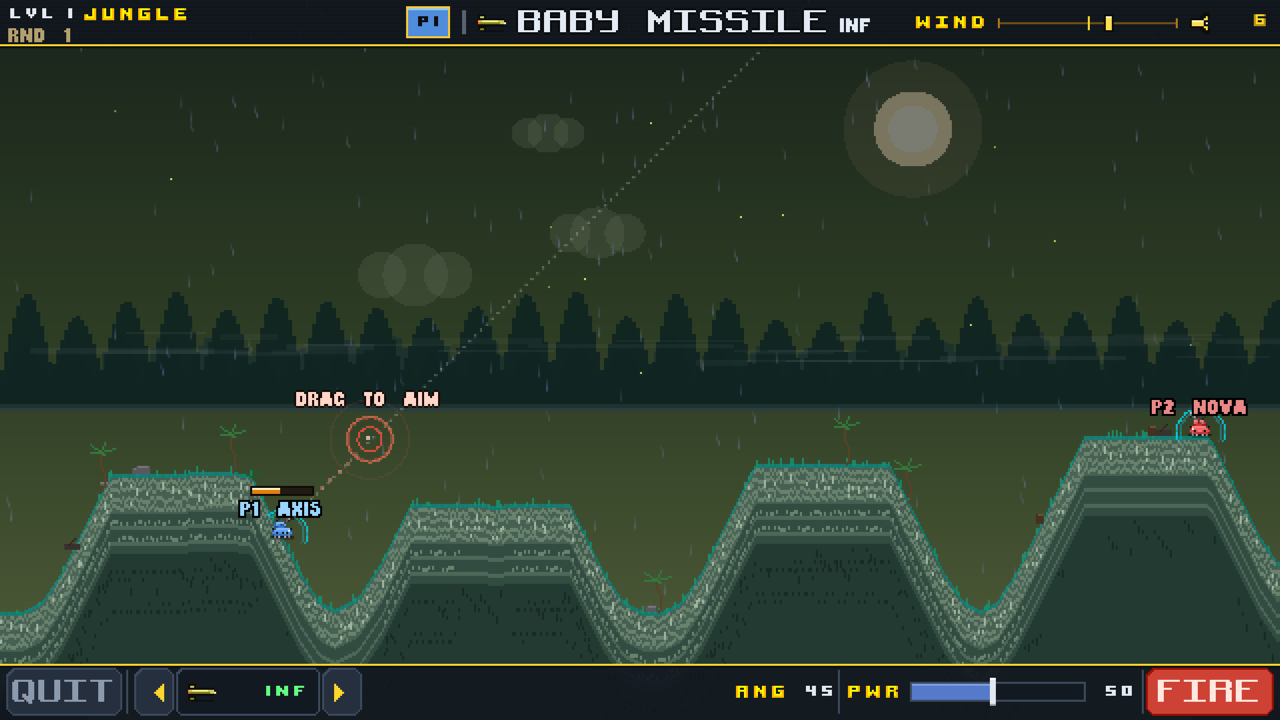
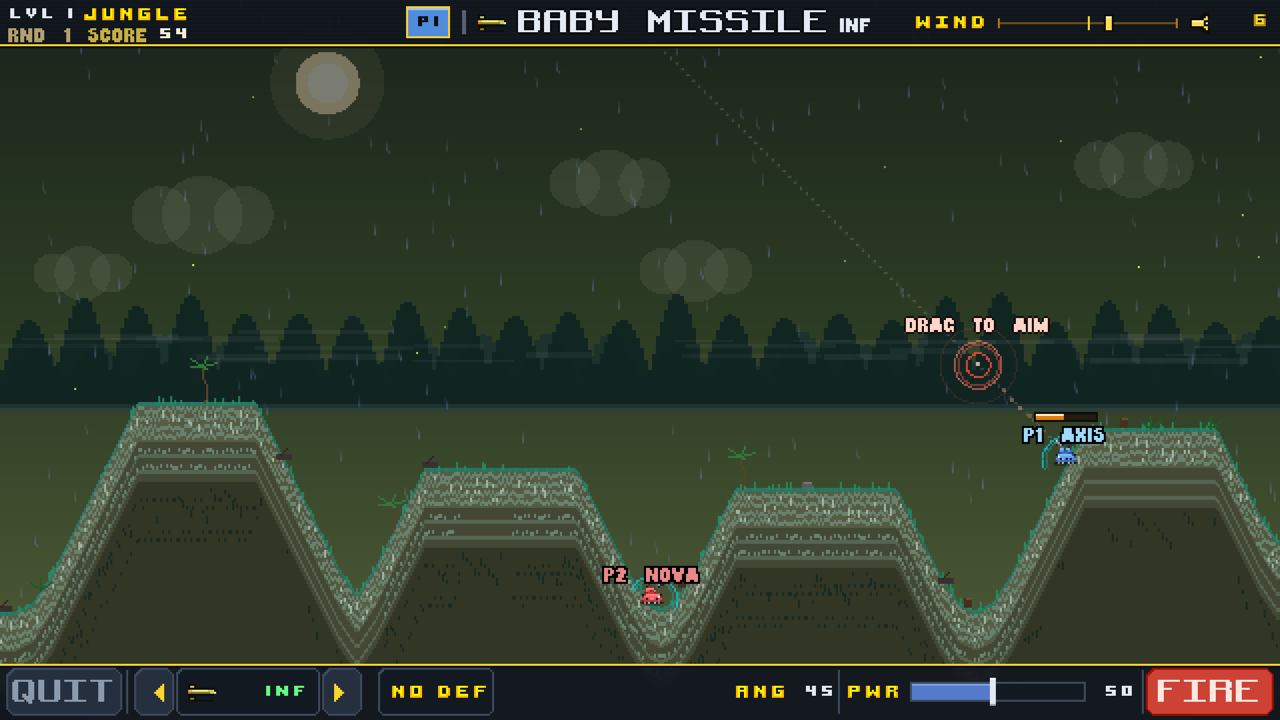
feat: modelos animados, sonido de explosión nuevo, selector de defensa y botón de compartir
El cuadrado blanco que tapaba el tanque al disparar era el propio obús:
BuildShot lo sacaba por un offset fijo que ignoraba el ángulo del cañón, así
que disparando alto nacía sobre el casco, y la estela —que se dibuja hacia
atrás— apuntaba dentro del tanque. Ahora sale por la boca del tubo y la
estela se limita a lo recorrido.

Los modelos del datalink se construyen cada fotograma con un builder de
anillos en vez de una tabla de vértices numerados a mano, así que por fin
tienen curvatura y, sobre todo, se mueven: el bus del MIRV separa sus cinco
ojivas, el bote del racimo se abre y suelta las bombetas, la broca del
penetrador gira dentro del morro, y encima van llama de motor, chispa de
mecha y esquirlas. Los cuatro hologramas de defensa se rehacen en la misma
línea.

La explosión pasa a siete capas con ecos retardados y sube el volumen
general; los sub-obuses abren mucho más el abanico y salen con más fuerza
en los extremos; y la protección instalada tiene por fin selector en
partida (celda del HUD o tecla D), con el sistema acoplado encajando el
próximo impacto.

Además: puntuación viva en el HUD, trayectorias más discretas, celdas del
rack a la misma altura con un bloque TANK STATUS, y un botón SHARE en el
menú principal que abre WhatsApp o Telegram — con la web preparada para que
ese enlace enseñe una tarjeta decente.

diff --git a/components/ShareGame.tsx b/components/ShareGame.tsx
@@ -1,0 +1,109 @@
+'use client';
+import { useState } from 'react';
+import { motion } from 'framer-motion';
+import { Check, Copy, Send, MessageCircle } from 'lucide-react';
+import { SITE_URL, SITE_NAME } from '@/lib/site';
+
+// One line of copy shared everywhere, so a link posted from the game and one
+// posted from this page read the same in the chat.
+const PITCH = `${SITE_NAME} — pixel-art artillery with destructible terrain. Free, offline, no accounts:`;
+
+const targets = [
+  {
+    id: 'whatsapp',
+    label: 'WhatsApp',
+    color: '#25D366',
+    icon: MessageCircle,
+    href: `https://wa.me/?text=${encodeURIComponent(`${PITCH} ${SITE_URL}`)}`,
+  },
+  {
+    id: 'telegram',
+    label: 'Telegram',
+    color: '#2AABEE',
+    icon: Send,
+    href: `https://t.me/share/url?url=${encodeURIComponent(SITE_URL)}&text=${encodeURIComponent(PITCH)}`,
+  },
+  {
+    id: 'x',
+    label: 'X',
+    color: '#e8ecf3',
+    icon: null,
+    href: `https://twitter.com/intent/tweet?text=${encodeURIComponent(PITCH)}&url=${encodeURIComponent(SITE_URL)}`,
+  },
+];
+
+export default function ShareGame() {
+  const [copied, setCopied] = useState(false);
+
+  const copy = async () => {
+    try {
+      await navigator.clipboard.writeText(SITE_URL);
+      setCopied(true);
+      setTimeout(() => setCopied(false), 2200);
+    } catch {
+      /* clipboard blocked (insecure context / denied) — the links still work */
+    }
+  };
+
+  return (
+    <section id="share" className="relative py-20 px-6 bg-bg-2 border-t border-line">
+      <div className="absolute inset-0 bg-grid opacity-20 pointer-events-none" />
+      <div className="relative max-w-3xl mx-auto text-center">
+        <div className="inline-block font-mono text-xs text-amber-2 border border-amber/40 px-4 py-1.5 mb-4 tracking-widest">
+          PASS IT ON
+        </div>
+        <h2 className="font-display text-2xl md:text-4xl text-cream tracking-tight uppercase">
+          Artillery is better with a rival
+        </h2>
+        <p className="font-mono text-sm text-muted mt-3 mb-8">
+          Send the link — they play on the same couch, or beat your score and
+          send back a share code
+        </p>
+
+        <div className="flex flex-wrap items-center justify-center gap-3">
+          {targets.map((t, i) => {
+            const Icon = t.icon;
+            return (
+              <motion.a
+                key={t.id}
+                href={t.href}
+                target="_blank"
+                rel="noopener noreferrer"
+                initial={{ opacity: 0, y: 14 }}
+                whileInView={{ opacity: 1, y: 0 }}
+                viewport={{ once: true }}
+                transition={{ duration: 0.35, delay: i * 0.06 }}
+                whileHover={{ y: -3 }}
+                className="flex items-center gap-2 px-5 py-3 bg-panel border clip-angled-sm font-mono text-sm text-cream"
+                style={{ borderColor: `${t.color}55` }}
+              >
+                {Icon
+                  ? <Icon size={16} style={{ color: t.color }} />
+                  : <span className="font-display text-base" style={{ color: t.color }}>X</span>}
+                {t.label}
+              </motion.a>
+            );
+          })}
+
+          <motion.button
+            onClick={copy}
+            initial={{ opacity: 0, y: 14 }}
+            whileInView={{ opacity: 1, y: 0 }}
+            viewport={{ once: true }}
+            transition={{ duration: 0.35, delay: 0.18 }}
+            whileHover={{ y: -3 }}
+            className="flex items-center gap-2 px-5 py-3 bg-panel border border-amber/50 clip-angled-sm font-mono text-sm text-amber-2"
+          >
+            {copied ? <Check size={16} /> : <Copy size={16} />}
+            {copied ? 'Link copied' : 'Copy link'}
+          </motion.button>
+        </div>
+
+        <p className="font-mono text-[11px] text-muted-2 mt-6">
+          The game has the same button: <span className="text-amber-2">SHARE</span> in the
+          top-right corner of the main menu
+        </p>
+      </div>
+    </section>
+  );
+}

diff --git a/app/layout.tsx b/app/layout.tsx
@@ -6,7 +6,7 @@ import { SITE_URL, SITE_NAME } from '@/lib/site';
 
 const TITLE = SITE_NAME;
 const DESCRIPTION =
-  'A turn-based artillery game with destructible pixel-art terrain, inspired by Scorched Earth. Local multiplayer, procedural levels, 100% offline — no servers.';
+  'Blow the ground out from under your rival. Turn-based pixel-art artillery: 8 biomes, 7 warheads, 4 defence systems, 2–6 players on one screen. Free, offline, no accounts.';
 
 export const metadata: Metadata = {
   metadataBase: new URL(SITE_URL),
@@ -37,14 +37,18 @@ export const metadata: Metadata = {
       url: 'og-image.png',
       width: 1200,
       height: 630,
-      alt: 'TerraShell Fracture title screen — a pixel-art tank firing across a desert canyon, with the game logo overhead',
+      type: 'image/png',
+      alt: 'TerraShell Fracture key art — a pixel-art tank firing across a desert canyon under the game logo, with the tagline OFFLINE ARTILLERY WARFARE',
     }],
   },
   twitter: {
     card: 'summary_large_image',
     title: `${TITLE} — Offline Artillery Warfare`,
     description: DESCRIPTION,
-    images: ['og-image.png'],
+    images: [{
+      url: 'og-image.png',
+      alt: 'TerraShell Fracture key art — a pixel-art tank firing across a desert canyon under the game logo',
+    }],
   },
 };
 

diff --git a/components/Arsenal.tsx b/components/Arsenal.tsx
@@ -207,8 +207,9 @@ export default function Arsenal() {
           <h2 className="font-display text-2xl md:text-4xl text-cream tracking-tight uppercase">Arsenal</h2>
           <p className="font-mono text-sm text-muted mt-3">All 7 weapons, real numbers — select one to inspect</p>
           <p className="font-mono text-xs text-muted-2 mt-2">
-            In game, each one gets a rotating wireframe model and a dossier
-            typed out live on a green phosphor CRT — scanlines, glow and all
+            In game each one is built as a live wireframe — the MIRV bus
+            separates its warheads, the cluster canister spills its bomblets —
+            beside a dossier typed onto a green phosphor CRT
           </p>
         </motion.div>
 

diff --git a/app/page.tsx b/app/page.tsx
@@ -12,6 +12,7 @@ import ShareCodes  from '@/components/ShareCodes';
 import Controls    from '@/components/Controls';
 import Specs       from '@/components/Specs';
 import Download    from '@/components/Download';
+import ShareGame   from '@/components/ShareGame';
 import Footer      from '@/components/Footer';
 import { SITE_URL, SITE_NAME } from '@/lib/site';
 
@@ -77,6 +78,7 @@ export default function Home() {
         <Controls />
         <Specs />
         <Download />
+        <ShareGame />
       </main>
       <Footer />
     </>
